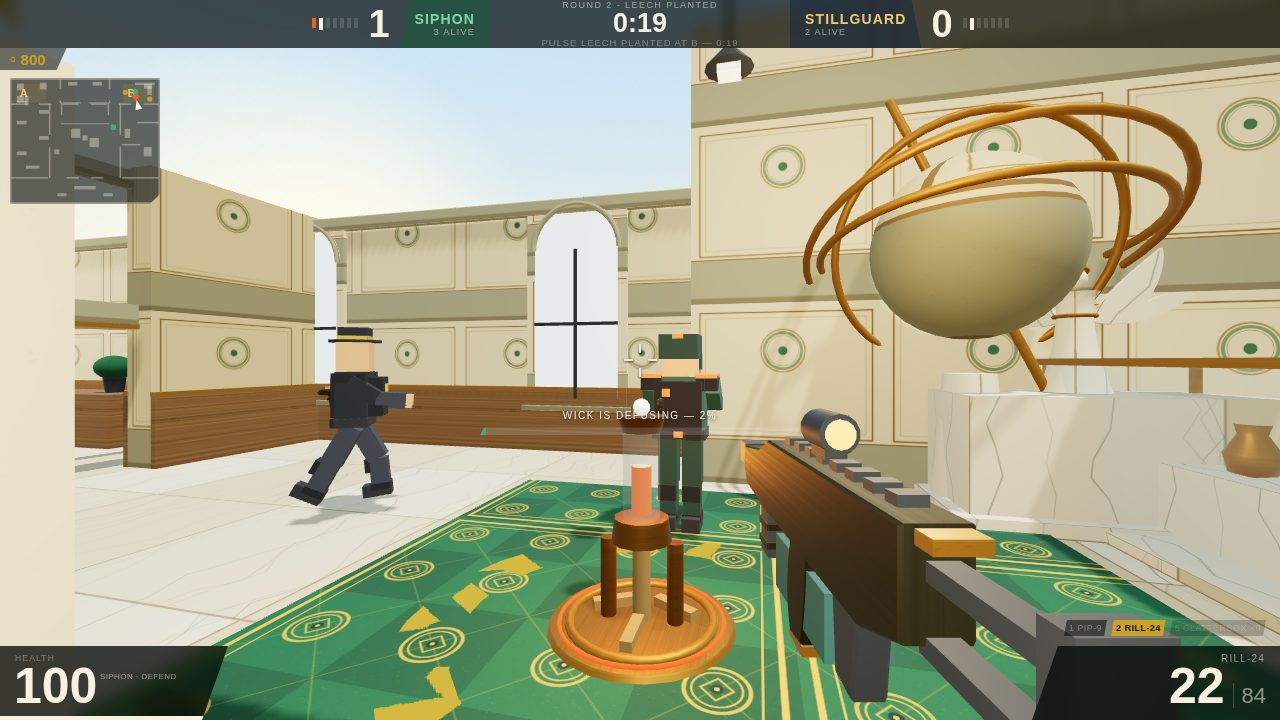
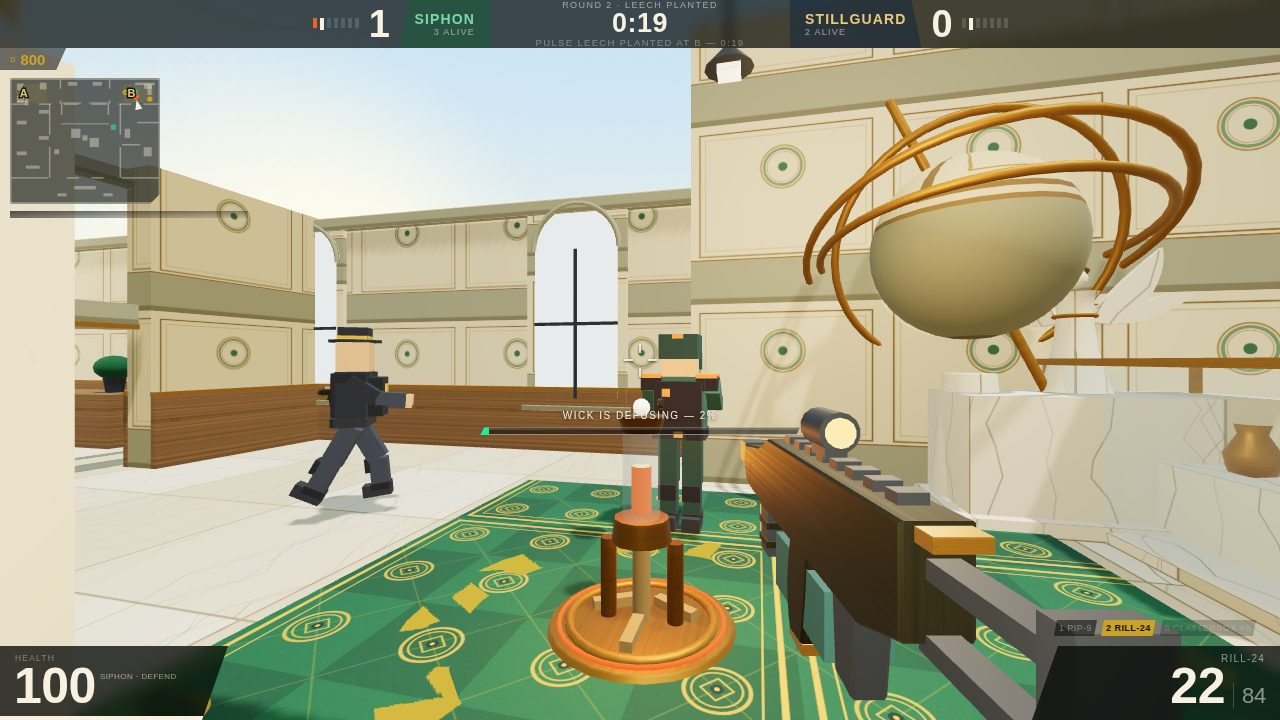
Narrow fix round: comms legibility, strip floor weight, slot inset, minimap label order.
Radio comms no longer wash out over bright floors: layered warm-dark text-shadow, brighter ivory text and a soft gradient scrim behind the comms block only; lines are single-line with a ~40-character budget and ellipsis truncation, and the longest round-start template was shortened. The plant/defuse strip keeps a visible dark backing track with a light inset ring at any progress, the fill never drops below 9 px, and its colour warms with progress (saturated orange at low percent to amber at completion; defuse starts teal and warms the same way). The weapon slot bar now sits at a 24 px right inset so the Clatterbox chip ends fully inside the frame. Minimap site letters are drawn after the combatant dots with a dark halo, so they are never obscured. Letter-spacing tightened on the big numerals, widened on the objective line. Presentation only: gameplay, bot and economy logic untouched; buy-row affordability dimming and the health-wedge team label were verified already correct against live state.

Verified: dossier 162,939 bytes of the 163,840 cap with all 14 source files complete, deterministic across two builds; node --check clean; unscripted bot proof of plant at B and defuse with zero page errors; four re-shot screenshots, each under 256 KiB.

diff --git a/game/index.html b/game/index.html
@@ -15,7 +15,7 @@ html,body{margin:0;height:100%;overflow:hidden;background:#23272e;color:var(--iv
 #game,#game canvas{position:fixed;inset:0;display:block}
 #hud{position:fixed;inset:0;pointer-events:none;z-index:5}
 #hud [hidden]{display:none}
-.num{font-family:var(--cond);font-variant-numeric:tabular-nums;font-feature-settings:"tnum" 1}
+.num{font-family:var(--cond);font-variant-numeric:tabular-nums;font-feature-settings:"tnum" 1;letter-spacing:-.01em}
 #topstrip{position:fixed;top:0;left:0;right:0;height:48px;display:flex;background:rgba(6,10,9,.72);backdrop-filter:blur(6px) saturate(1.4)}
 .tz{display:flex;align-items:center;gap:10px;flex:1}
 .tzl{justify-content:flex-end}
@@ -35,16 +35,17 @@ html,body{margin:0;height:100%;overflow:hidden;background:#23272e;color:var(--iv
 .pip.wb{background:var(--brass)}
 .pip.cur{height:12px;background:var(--ivory)}
 #round-label{font-size:9px;letter-spacing:.16em;color:var(--dim);text-transform:uppercase}
-#timer{font-size:27px;font-weight:700;line-height:1;color:var(--ivory)}
+#timer{font-size:27px;font-weight:700;line-height:1;color:var(--ivory);letter-spacing:.02em}
 #timer.hot{color:var(--org)}
-#objective-line{font-size:9.5px;letter-spacing:.1em;color:var(--faint);text-transform:uppercase;white-space:nowrap}
+#objective-line{font-size:9.5px;letter-spacing:.14em;color:var(--faint);text-transform:uppercase;white-space:nowrap}
 #money{position:fixed;top:48px;left:0;height:22px;display:flex;align-items:center;gap:5px;padding:0 16px 0 10px;background:rgba(6,10,9,.55);clip-path:polygon(0 0,100% 0,calc(100% - 10px) 100%,0 100%)}
 #money i{font-style:normal;font-size:10px;color:rgba(201,162,39,.85)}
 #money-num{font-size:15px;font-weight:700;color:var(--brass)}
 #money-delta{font-size:11px;color:var(--brass);opacity:0;transition:opacity .3s}
 #leftcluster{position:fixed;left:10px;top:78px;width:150px}
 #minimap{display:block;background:rgba(5,9,8,.66);clip-path:polygon(0 0,100% 0,100% calc(100% - 10px),calc(100% - 10px) 100%,0 100%)}
-#comms{margin-top:7px;font-size:10.5px;line-height:1.55;color:var(--dim);text-shadow:0 1px 3px rgba(0,0,0,.8)}
+#comms{margin-top:7px;font-size:10.5px;line-height:1.55;color:rgba(248,240,225,.94);text-shadow:1px 1px 0 rgba(10,7,3,.92),0 0 4px rgba(10,7,3,.85),0 1px 5px rgba(10,7,3,.9);background:linear-gradient(180deg,rgba(5,8,7,.36),rgba(5,8,7,.08) 85%),linear-gradient(90deg,rgba(5,8,7,.5),rgba(5,8,7,.14) 72%,rgba(5,8,7,0));padding:3px 12px 4px 4px;width:238px}
+#comms div{white-space:nowrap;overflow:hidden;text-overflow:ellipsis}
 #comms b{font-weight:700}
 #killfeed{position:fixed;top:54px;right:0;display:flex;flex-direction:column;align-items:flex-end;gap:2px}
 .kf{height:24px;display:flex;align-items:center;gap:7px;padding:0 10px 0 15px;background:rgba(6,10,9,.65);clip-path:polygon(8px 0,100% 0,100% 100%,0 100%);font-size:11px;font-weight:700;letter-spacing:.05em;text-transform:uppercase}
@@ -69,7 +70,7 @@ html,body{margin:0;height:100%;overflow:hidden;background:#23272e;color:var(--iv
 #ammo-mag.low{color:var(--org)}
 #ammo-line .res{font-size:22px;color:var(--dim);border-left:1px solid rgba(255,255,255,.2);padding-left:8px;margin-left:8px}
 #ammo-line.empty #ammo-mag{color:var(--org)}
-#slots{position:fixed;right:14px;bottom:84px;display:flex;gap:4px}
+#slots{position:fixed;right:24px;bottom:84px;display:flex;gap:4px}
 .slot{font-size:9px;letter-spacing:.05em;color:var(--faint);background:rgba(6,10,9,.55);padding:3px 5px;clip-path:polygon(3px 0,100% 0,calc(100% - 3px) 100%,0 100%);white-space:nowrap}
 .slot.on{color:#171106;background:var(--brass);font-weight:700}
 .slot.off{opacity:.4}
@@ -89,8 +90,8 @@ html,body{margin:0;height:100%;overflow:hidden;background:#23272e;color:var(--iv
 #hitmarker i:nth-child(4){top:11px;right:0;height:2px;width:7px}
 #interact{position:fixed;left:50%;top:57%;transform:translateX(-50%);width:320px;text-align:center}
 #interact-label{font-size:10px;letter-spacing:.15em;color:var(--ivory);text-transform:uppercase;text-shadow:0 1px 4px rgba(0,0,0,.7);margin-bottom:6px}
-#interact-track{height:8px;background:rgba(255,255,255,.15);clip-path:polygon(4px 0,100% 0,calc(100% - 4px) 100%,0 100%)}
-#interact-fill{height:100%;width:0;background:var(--org)}
+#interact-track{height:8px;background:rgba(8,10,9,.55);box-shadow:inset 0 0 0 1px rgba(248,240,225,.5),inset 0 3px 0 rgba(255,255,255,.14);clip-path:polygon(4px 0,100% 0,calc(100% - 4px) 100%,0 100%)}
+#interact-fill{height:100%;width:0;min-width:9px;background:var(--org)}
 #interact.defuse #interact-fill{background:var(--teal)}
 #banner{position:fixed;left:0;right:0;top:40%;height:56px;display:flex;flex-direction:column;justify-content:center;text-align:center;background:rgba(6,10,9,.85);clip-path:polygon(0 0,100% 0,calc(100% - 34px) 100%,34px 100%);transform:translateX(-103%);transition:transform .18s cubic-bezier(.22,1,.36,1)}
 #banner.on{transform:translateX(0)}

diff --git a/game/src/hud.js b/game/src/hud.js
@@ -123,7 +123,10 @@ export function createHud() {
 		hurt(now, amount) { hurtT = now; hurtHeavy = amount > 40; },
 		say(match, actor, text) {
 			if (!actor) return;
-			comms.push({ h: `<b style="color:${TEAM_CSS[actor.team]}">${nameOf(actor).toUpperCase()}</b> ${text}`, t: match.time });
+			const nm = nameOf(actor);
+			const room = 39 - nm.length;
+			if (text.length > room) text = `${text.slice(0, room - 1)}…`;
+			comms.push({ h: `<b style="color:${TEAM_CSS[actor.team]}">${nm.toUpperCase()}</b> ${text}`, t: match.time });
 			if (comms.length > 4) comms.shift();
 		},
 		contact(match, target) {
@@ -150,9 +153,6 @@ export function createHud() {
 			for (const s of Object.values(SITES)) {
 				g.fillStyle = 'rgba(201,162,39,0.14)';
 				g.fillRect(mx(s.x0), mz(s.z0), (s.x1 - s.x0) * MK, (s.z1 - s.z0) * MK);
-				g.fillStyle = '#e8c97a';
-				g.font = '700 11px Arial';
-				g.fillText(s.id, mx(s.x0) + 4, mz(s.z0) + 13);
 			}
 			g.fillStyle = 'rgba(233,226,208,0.42)';
 			for (const b of boxes) {
@@ -240,6 +240,7 @@ export function createHud() {
         els.interact.hidden = false;
         const frac = Math.min(1, ch.t / ch.need);
         els.interactFill.style.width = `${frac * 100}%`;
+        els.interactFill.style.background = `hsl(${Math.round(ch.kind === 'defuse' ? 158 - frac * 115 : 16 + frac * 27)} 85% 52%)`;
         els.interact.classList.toggle('defuse', ch.kind === 'defuse');
         const what = ch.kind === 'plant' ? 'Planting the Pulse Leech' : 'Defusing the Pulse Leech';
         els.interactLabel.textContent = ch.actor.isPlayer ? `${what} — ${Math.round(frac * 100)}%`
@@ -290,6 +291,15 @@ export function createHud() {
           mm.fillStyle = '#f8f0e1';
           mm.fill();
           mm.restore();
+        }
+        // Site labels last, over the dots, with a dark halo.
+        mm.font = '700 11px Arial';
+        mm.lineWidth = 3;
+        mm.strokeStyle = 'rgba(5,9,8,.85)';
+        mm.fillStyle = '#e8c97a';
+        for (const s of Object.values(SITES)) {
+          mm.strokeText(s.id, mx(s.x0) + 4, mz(s.z0) + 13);
+          mm.fillText(s.id, mx(s.x0) + 4, mz(s.z0) + 13);
         }
       }
       // Deaths tally (for the scoreboard), from alive transitions.

diff --git a/game/src/main.js b/game/src/main.js
@@ -256,7 +256,7 @@ function processEvents(now) {
 			case 'buy': if (e.actor.isPlayer) audio.buy(); break;
 			case 'round-start': {
 				hud.banner(`ROUND ${e.round}`, player.team === e.attackTeam ? 'Your team attacks' : 'Your team defends', 2.2, now);
-				const dest = match.planSite === 'A' ? 'the Library — west lane.' : 'the Gallery — east lane, watch the balcony.';
+				const dest = match.planSite === 'A' ? 'the Library — west lane.' : 'the Gallery — east lane.';
 				hud.say(match, firstBot(e.attackTeam), `Pushing ${dest}`);
 				break;
 			}
